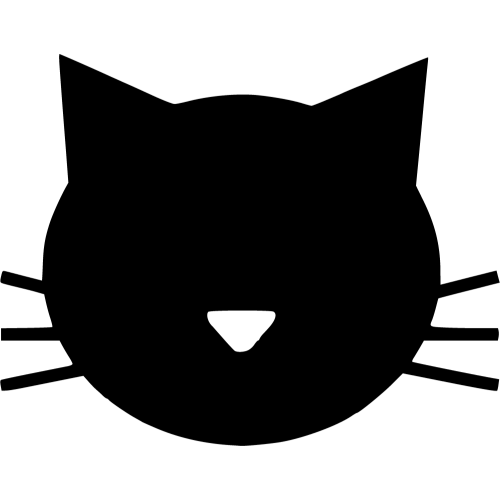
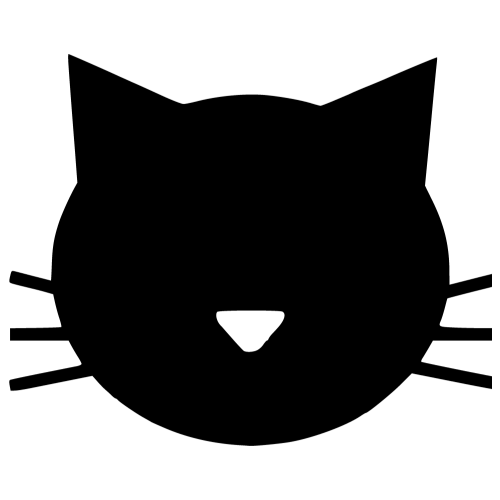
Cat scratch button

diff --git a/src/Game/js/ui/ScratchCatButton/ScratchCatButton.js b/src/Game/js/ui/ScratchCatButton/ScratchCatButton.js
@@ -1,0 +1,86 @@
+import { GameObject } from "../../../../Engine/GameObject/GameObject";
+import { Sprite } from "../../../../Engine/Sprite/Sprite";
+import { Collider } from "../../../../Engine/Collider/Collider";
+import { MainCursor, ScratchCatObj } from "../../scenes/CoreScene";
+import { getRandom } from "../../utilities/random";
+import { gc } from "../../game_config";
+
+const Z_INDEX = 10;
+
+export class ScratchCatButton extends GameObject {
+  constructor(
+    size = { w: 260, h: 152 },
+    coords = { x: 0, y: 0 }
+  ) {
+    super();
+    this.sprite = new Sprite(
+      '../../../img/ui/cat_button_empty.png',
+      {x: 0, y: 0},
+      {w: 650, h: 380},
+      size
+    );
+
+    this.collider = new Collider(
+      { x: 0, y: 0 },
+      { w: size.w - 20 * gc.modifer, h: size.h - 20 * gc.modifer},
+      { x: 10 * gc.modifer, y: 10 * gc.modifer },
+    );
+
+    this.collider.addInteractionObject(MainCursor);
+
+    this.moveTo(coords);
+
+    this.disabled = false;
+
+    this._pushed = false;
+    this._isAnimated = false;
+
+    this.setInit(() => {
+      this.render();
+      this.setRenderIndex(Z_INDEX);
+    });
+  }
+
+  push(){
+    if (!this._isAnimated && !this.disabled) {
+      this._pushed = true;
+      this.sprite.resize(0.95, 100);
+      this._isAnimated = true;
+      setTimeout(() => this._isAnimated = false, 100);
+    }
+  }
+
+  unpush(jump = false){
+    if (!this._isAnimated) {
+      this._isAnimated = true;
+
+      this.sprite.resize(1, 100);
+
+      jump && ScratchCatObj.attack(getRandom(1, 4));
+
+      setTimeout(() => {
+        this._pushed = false;
+        this._isAnimated = false
+        }, 100
+      );
+    }
+  }
+
+  tick() {
+    super.tick();
+    if (this.collider.getInteractions().has(MainCursor.collider) && !this.disabled && !MainCursor.hasMoved) {
+      if (!this._pushed) {
+        this.push();
+      }
+    }
+    else {
+      if (this._pushed){
+        if (MainCursor.hold){
+          this.unpush(false);
+        } else {
+          this.unpush(true);
+        }
+      }
+    }
+  }
+}

diff --git a/src/Game/js/scenes/CoreScene.js b/src/Game/js/scenes/CoreScene.js
@@ -1,7 +1,7 @@
 import {Scene} from "../../../Engine/Scene/Scene";
 import {Camera} from "../../../Engine/Camera/Camera";
 
-import {Grid} from "../objects/Grid/Grid";
+import { BORDER, Grid } from "../objects/Grid/Grid";
 import {Cursor} from "../objects/Cursor/Cursor";
 import {BigYarnBall} from "../objects/BigYarnBall/BigYarnBall";
 import {PawCollector} from "../objects/PawCollector/PawCollector";
@@ -10,13 +10,14 @@ import {BALL_SIZE, BLUE} from "../objects/YarnBall/YarnBall";
 import {GRID_SIZE} from "../objects/Grid/gridSize";
 import {gc} from "../game_config";
 import { Background } from "../objects/Background/Background";
+import { ScratchCatButton } from "../ui/ScratchCatButton/ScratchCatButton";
 
 Camera.moveTo({x: 0, y: 0});
 Camera.setFrames([[0, 0], [128, 128]]);
 
 const gridOffset = {
   x: (gc.srcSize.w - BALL_SIZE * GRID_SIZE ) / 2,
-  y: (gc.srcSize.h - BALL_SIZE * GRID_SIZE ) - 200
+  y: (gc.srcSize.h - BALL_SIZE * GRID_SIZE ) - 100 * gc.modifer
 };
 
 export const YarnGrid = new Grid(gridOffset, GRID_SIZE);
@@ -28,6 +29,21 @@ export const BigYarnBallObj = new BigYarnBall({x: 0, y: 0}, BLUE);
 export const Paw = new PawCollector({ x: gc.srcSize.w, y: -375 });
 
 export const ScratchCatObj = new ScratchCat({ x: 0, y: 0 });
+
+const ScratchCatButtonParams = {
+  w: 130 * gc.modifer,
+  h: 76 * gc.modifer,
+};
+
+const gridLastY = gridOffset.y + BALL_SIZE * GRID_SIZE + BORDER;
+export const ScratchCatButtonObj =
+  new ScratchCatButton(
+    {w: ScratchCatButtonParams.w, h: ScratchCatButtonParams.h},
+    {
+      x: gc.srcSize.w / 2 - ScratchCatButtonParams.w / 2,
+      y: gridLastY + (gc.srcSize.h - gridLastY) / 2 - ScratchCatButtonParams.h / 2
+    }
+  );
 
 export const MainBackground = new Background(
   "../../img/background/room2.png",
@@ -44,5 +60,6 @@ export const CoreScene = new Scene(128, 128, [
   BigYarnBallObj,
   MainCursor,
   Paw,
-  ScratchCatObj
+  ScratchCatObj,
+  ScratchCatButtonObj
 ], Camera);

diff --git a/src/Game/js/objects/Cursor/Cursor.js b/src/Game/js/objects/Cursor/Cursor.js
@@ -29,6 +29,7 @@ export class Cursor extends GameObject {
     };
 
     this.hold = false;
+    this.hasMoved = false;
 
     this.setInit(() => {
       this.render();
@@ -38,10 +39,12 @@ export class Cursor extends GameObject {
         this.followTouch(e);
       };
       window.ontouchmove = e => {
+        this.hasMoved = true;
         this.followTouch(e);
       };
       window.ontouchend = e => {
         this.hold = false;
+        this.hasMoved = false;
         !YarnGrid.ballsDisabled && YarnGrid.clearSelection();
       };
     });

diff --git a/src/Game/js/objects/Grid/Grid.js b/src/Game/js/objects/Grid/Grid.js
@@ -8,6 +8,8 @@ import { gc } from "../../game_config";
 
 const Z_INDEX = 1;
 
+export const BORDER = 10 * gc.modifer;
+
 const getRandomColor = () => {
   const colorArray = [BLUE, GREEN, PINK, YELLOW, PURPLE];
   const randomNum = getRandom(0, colorArray.length);
@@ -17,8 +19,6 @@ const getRandomColor = () => {
 export class Grid extends GameObject {
   constructor(coords, size = 5){
     super();
-
-    const BORDER = 20;
 
     this.sprite = new SquareSprite(
       { w: BALL_SIZE * size + BORDER, h: BALL_SIZE * size + BORDER },
